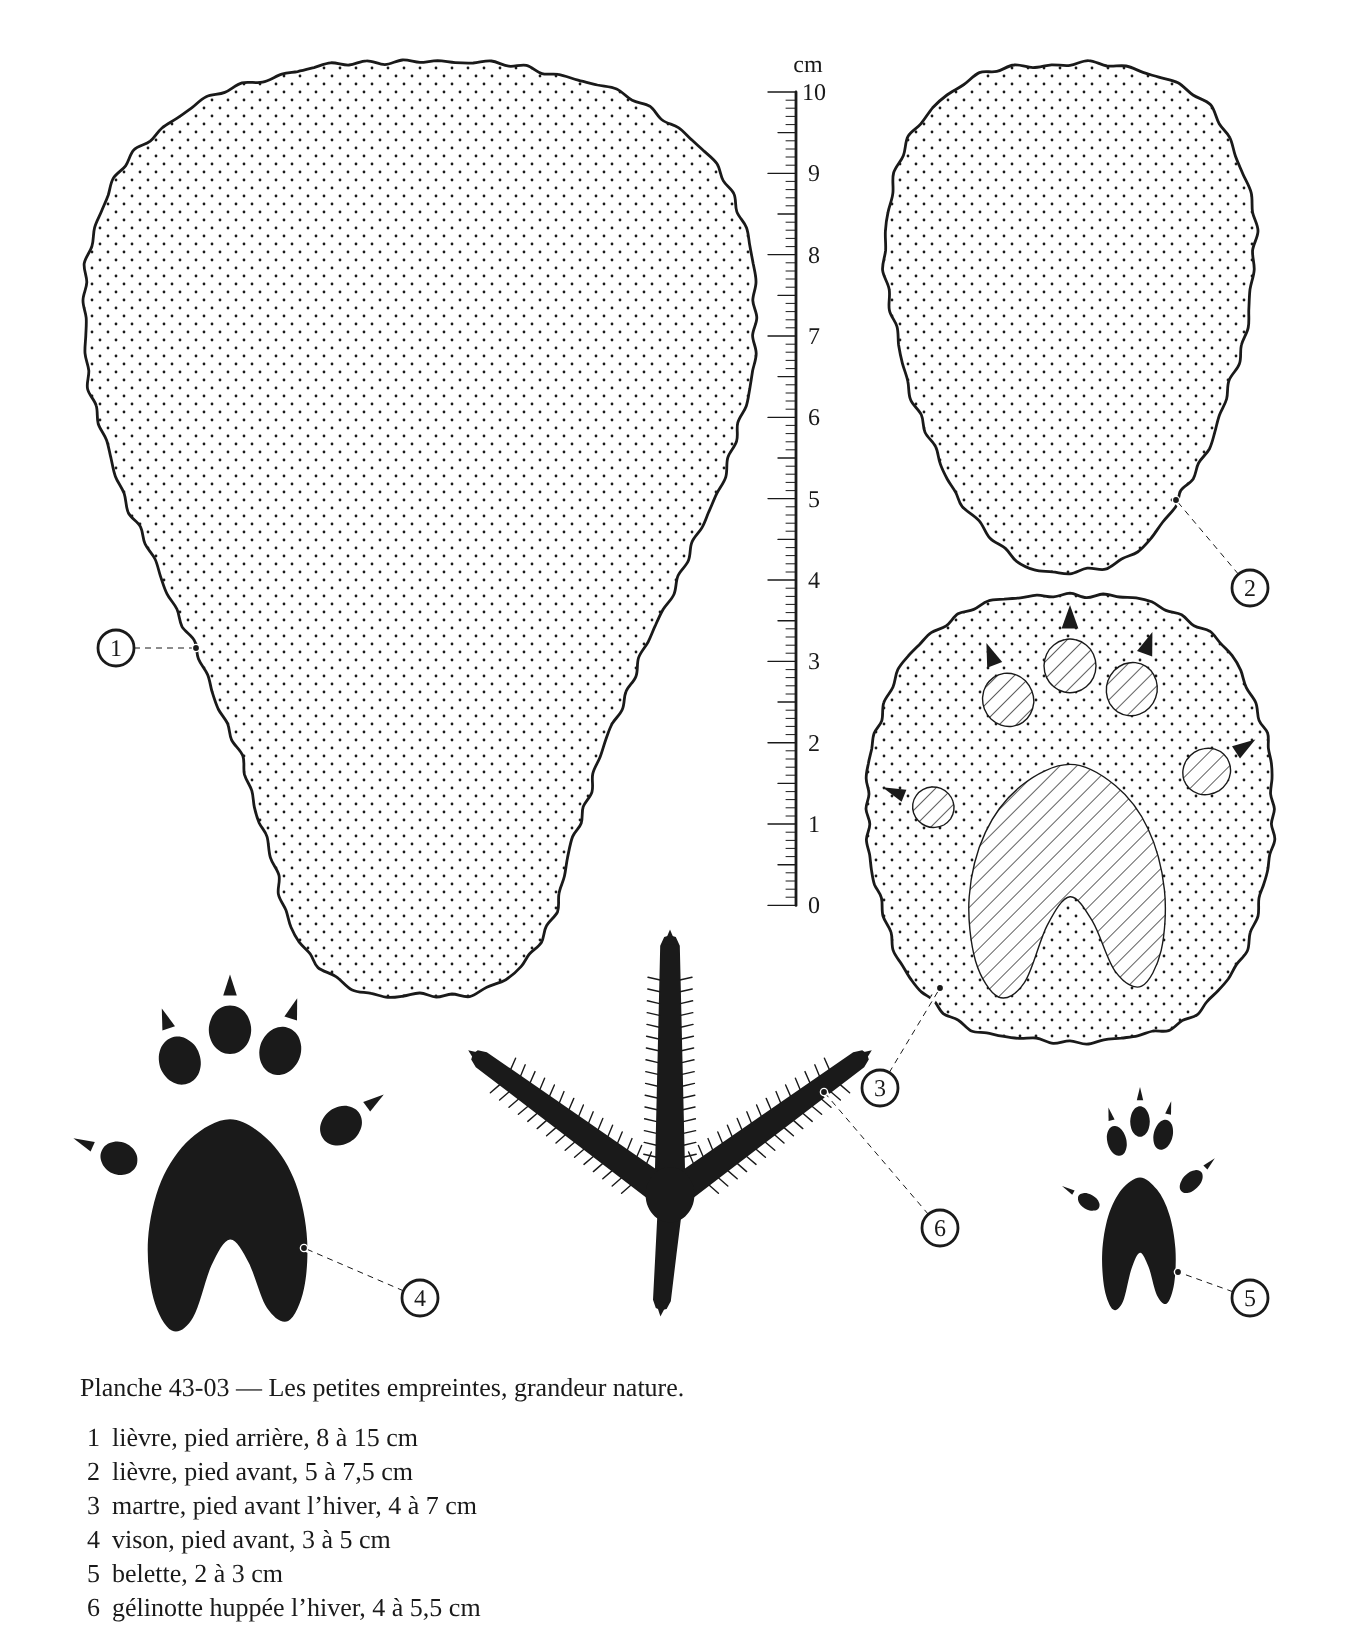
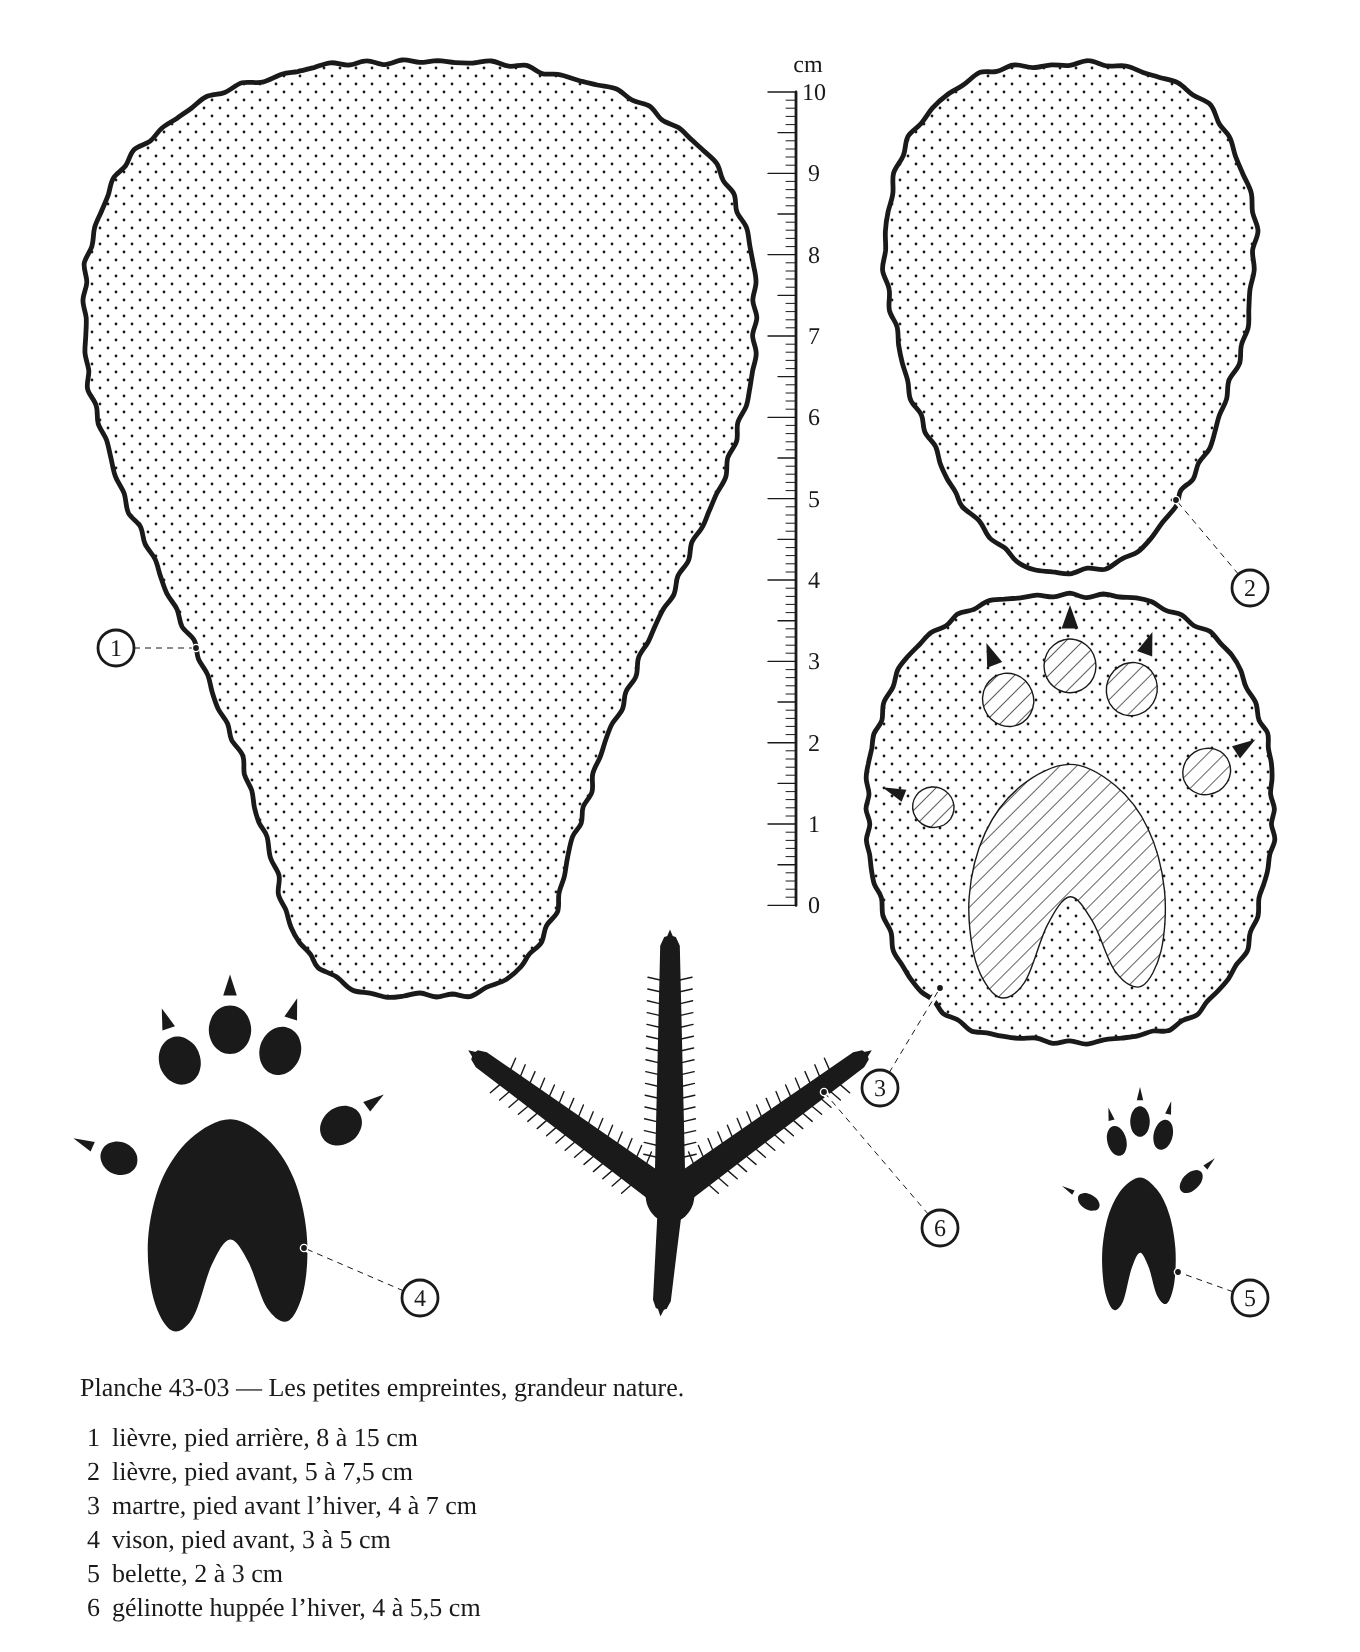
Charte : lot 6, paquet 2 (7 planches)
Claude-Session: https://claude.ai/code/session_014xDY5FLxFXDJt3nYAYznSZ

Changed region(s): [[0.7412, 0.3396, 0.8338, 0.3705]]

diff --git a/images/planches-src/12-05b.js b/images/planches-src/12-05b.js
@@ -2,6 +2,11 @@
 // section 3). Même géométrie de voûte que 12-05a. Aucune cote : le chapitre ne donne ni diamètre, ni
 // hauteur, ni profondeur de fosse ou de passage ; seules comptent les hauteurs relatives : passage plus
 // bas que le plancher, porte plus basse que le banc, trou d'aération près du sommet.
+//
+// La charte : le dedans de la maison et du passage, vus par la coupe (la voûte au-delà, les
+// blocs debout au bord de la tranchée, la paroi de la tranchée), en gris loin ; la neige coupée
+// garde sa trame, sans gris. Le rouge : les deux ouvertures qu'une poudrerie bouche et qu'on
+// dégage — le trou d'aération et l'entrée du passage. Les flèches d'air restent noires.
 
 module.exports = (h) => {
   // ─── La voûte : chaînette, en cm. Surface moyenne du mur, demi-largeur a au pied, hauteur hm.
@@ -84,6 +89,13 @@ module.exports = (h) => {
         titre: 'Dans l’axe du passage',
         dessin: z => {
           const { P } = kG(z), Pp = pts => pts.map(P), out = [];
+          // le dedans, vu par la coupe : sous la voûte, par la porte, dans le passage et la tranchée
+          { let l = 0, r = ST;
+            for (let i = 0; i < 40; i++) { const m = (l + r) / 2; if (surf(m, 1)[1] < PI0) l = m; else r = m; }
+            const dedans = courbe(0, ST, -1, -1, 40).concat(courbe(ST, 0, 1, -1, 40))
+              .concat([[150, -20], [172, -20]]).concat(courbe(0, l, 1, 1, 16))
+              .concat([[330, PI0], [330, 0], [430, 0], [370, -95], [150, -95], [150, -55], [-40, -55], [-40, 0]]);
+            out.push(h.chemin(Pp(dedans), h.a.loin, true)); }
           // le manteau de neige coupé : banc laissé en place, fosse, marche, passage, rampe
           const profil = [[-200, 0], [-40, 0], [-40, -55], [150, -55], [150, -95], [370, -95], [430, 0], [470, 0]];
           out.push(h.chemin(Pp(profil.concat([[470, -135], [-200, -135]])), neige, true));
@@ -133,6 +145,9 @@ module.exports = (h) => {
           const [c1x, c1y] = P([-172, -12]), [c2x] = P([-150, -12]), [, r0] = P([0, 0]);
           out.push(h.chemin([[c1x, r0 + 2], [c1x, c1y + 4]], h.a.detail), h.chemin([[c2x, r0 + 2], [c2x, c1y + 4]], h.a.detail));
           out.push(h.cote(c1x, c1y, c2x, c1y, '200–250', { cote: 'dessous' }));
+          // à dégager après une poudrerie : le trou d'aération, l'entrée du passage
+          out.push(h.controle(...P([mv.x, mv.z]), 13));
+          out.push(h.controle(...P([418, -6]), 14));
           return out.join('\n');
         },
         renvois: z => {
@@ -156,6 +171,8 @@ module.exports = (h) => {
         titre: 'Le passage, en travers',
         dessin: z => {
           const { P } = pG(z), Pp = pts => pts.map(P), out = [];
+          // le passage qui file vers la maison, vu par la coupe
+          out.push(h.chemin(Pp([[-35, 0], [-35, -95], [35, -95], [35, 0]].concat(arc(35, PI0 - PB, 1)).concat(arc(35, PI0 - PB, -1).reverse())), h.a.loin, true));
           const profil = [[-120, 0], [-35, 0], [-35, -95], [35, -95], [35, 0], [120, 0]];
           out.push(h.chemin(Pp(profil.concat([[120, -128], [-120, -128]])), neige, true));
           out.push(h.chemin(Pp(profil), h.a.contour));

diff --git a/images/planches-src/29-05.js b/images/planches-src/29-05.js
@@ -15,6 +15,11 @@
 // le dit en entier. Le renvoi 5 aboutit sur le devant du cou étiré.
 // Le bébé est dessiné à la main (la bibliothèque n'a pas de nouveau-né), en mm : 118 de l'occiput
 // au front, visage petit sous un gros crâne, cou court, poitrine de 95 d'épaisseur.
+//
+// La charte : le bébé est un corps dessiné à la main, laissé tel quel, sans gris. Le linge roulé,
+// ce qu'on ajoute, pèse (contour fort). Pas de gris sur la planche, qui est en coupe. Le rouge :
+// sur le raté, le cercle sur la gorge qui se referme ; en soufflant, le cercle sur la poitrine qui
+// doit se soulever. La flèche de la poitrine reste noire : c'est le corps qui bouge, pas un geste.
 module.exports = (h) => {
   const A = h.a;
   const f = v => (Math.round(v * 10) / 10).toString();
@@ -121,7 +126,7 @@ module.exports = (h) => {
         const rr = 2.2 + (r - 3.4 - 2.2) * t / (2.4 * 360);
         sp.push(V(add(c, [rr * Math.cos(t * RAD), rr * Math.sin(t * RAD)])));
       }
-      out.push(h.cercle(...V(c), r * k, blanc(A.arete)));
+      out.push(h.cercle(...V(c), r * k, blanc(A.contour)));
       out.push(h.path(lisse(sp), A.detail));
     }
     // la couverture : du bas de la poitrine aux pieds (les bras sont dessous)
@@ -208,7 +213,8 @@ module.exports = (h) => {
     const v = vignette(z, A0, CADRE_P, XP, { poitrine: true });
     const y0 = surFace(X_FL)[1];
     const fl = [v.V([X_FL, y0 - 6]), v.V([X_FL, y0 - 30])];
-    return [v.svg, h.fleche(`M${pt(fl[0])} L${pt(fl[1])}`, A.arete)].join('\n');
+    const pc = v.V([120, leve([120, -109])[1] + 2]);   // ce qu'on regarde à chaque bouffée
+    return [v.svg, h.fleche(`M${pt(fl[0])} L${pt(fl[1])}`, A.arete), h.controle(pc[0], pc[1], 15)].join('\n');
   };
 
   // ─── Souffler, vu d'en haut : le visage du bébé couché, de face, et l'anneau des lèvres de
@@ -283,7 +289,10 @@ module.exports = (h) => {
       },
       rate: {
         titre: 'Raté : la tête renversée',
-        dessin: z => vignette(z, A_RATE, CADRE, XC).svg,
+        dessin: z => {
+          const g = posC(z, mil(poseTete(A_RATE)(GORGE), FACE[0]));   // là où la gorge se referme
+          return vignette(z, A_RATE, CADRE, XC).svg + '\n' + h.controle(g[0], g[1] + 6, 16);
+        },
         renvois: z => [
           // sur le devant du cou étiré, entre le menton et le haut de la poitrine
           { n: 5, rond: posC(z, [120, -146]), cible: posC(z, mil(poseTete(A_RATE)(GORGE), FACE[0])), texte: 'la gorge se referme' },

diff --git a/images/planches-src/43-03.js b/images/planches-src/43-03.js
@@ -19,6 +19,8 @@
 // Laissés de côté : l'écureuil roux et le rat musqué (le chapitre ne donne que des longueurs, ni
 // le nombre de doigts ni la forme), le canard et le tétras (aucune mesure dans le chapitre).
 // Toutes les empreintes ont les doigts vers le haut : la bête allait vers le haut de la page.
+// La charte (empreinte grandeur nature : pas de gris, pas de rouge) : le bord des pieds poilus du
+// lièvre et de la martre passe à 2,4, comme le contour des grands gabarits de la 43-01.
 module.exports = (h) => {
   const S = 680 / 167.2;                       // unités de vue par mm, à l'impression
   const f = (n) => (Math.round(n * 10) / 10).toFixed(1);
@@ -76,7 +78,7 @@ module.exports = (h) => {
   const LIEVRE_AV = miroir([[0, 31.25], [11, 29.8], [18.5, 24], [22.5, 13], [22, 1], [18.5, -12], [13, -23],
     [6.5, -29.8], [0, -31.25]]);
   // le creux du pied poilu est pointillé : c'est la surface que le pied a tassée
-  const pied = (ox, oy, contour, graine) => h.path(lisse(poilu(contour, 0.45, 2.2, graine).map(rep(ox, oy))), h.a.hachure('neige', 'arete'));
+  const pied = (ox, oy, contour, graine) => h.path(lisse(poilu(contour, 0.45, 2.2, graine).map(rep(ox, oy))), h.a.hachure('neige', 'contour'));
 
   // ─── Les mustélidés : cinq doigts un-trois-un, coussinet en chevron, griffes ───────────────────
   // En fraction de la largeur (u) et de la longueur (v) ; pied avant droit, petit doigt à gauche.
@@ -106,7 +108,7 @@ module.exports = (h) => {
   const MARTRE_POIL = miroir([[0, 0.5], [0.2, 0.48], [0.37, 0.39], [0.47, 0.22], [0.5, 0.02], [0.47, -0.18],
     [0.39, -0.36], [0.24, -0.47], [0, -0.5]]);
   const martre = (ox, oy) => [
-    h.path(lisse(poilu(MARTRE_POIL.map(([u, v]) => [u * 50, v * 55]), 0.4, 2, 5).map(rep(ox, oy))), h.a.hachure('neige', 'arete')),
+    h.path(lisse(poilu(MARTRE_POIL.map(([u, v]) => [u * 50, v * 55]), 0.4, 2, 5).map(rep(ox, oy))), h.a.hachure('neige', 'contour')),
     mustelide(ox, oy, 40, 44, true),
   ].join('\n');
 

diff --git a/.claude/skills/planches/scripts/mains/prises.js b/.claude/skills/planches/scripts/mains/prises.js
@@ -635,7 +635,10 @@ function pouceVers(S, G, nG, obstacles, o = {}) {
 function pouceSurPhalanges(S, segsD, noms, o = {}) {
   const ss = noms.map(n => segsD.find(s => s.id === n));
   const mid = ss.map(s => I3(s.a, s.b, o.t || 0.5)).reduce((a, b) => A3(a, M3(b, 1 / ss.length)), [0, 0, 0]);
-  const out = orth(U3(S3(mid, [mid[0] - 30, mid[1], 0])), U3(S3(ss[0].b, ss[0].a)));
+  // o.flanc (0 à 1) : la pulpe vise le flanc radial de la phalange plutôt que sa face extérieure. Sur la face,
+  // le bout du pouce dépasse le dos du bloc des doigts de 10 à 12 mm et, de profil, sort comme un canon (pointe)
+  const out0 = orth(U3(S3(mid, [mid[0] - 30, mid[1], 0])), U3(S3(ss[0].b, ss[0].a)));
+  const out = o.flanc ? orth(U3(A3(M3(out0, 1 - o.flanc), M3(ss[0].c.r, o.flanc))), U3(S3(ss[0].b, ss[0].a))) : out0;
   const G = A3(A3(mid, M3(out, rayonVers(ss[0], 0.5, out) + 0.4)), M3(ss[0].c.r, -(o.decale || 0)));
   // l'IP du pouce au bord radial du premier doigt replié (le pouce longe ce doigt, puis sa dernière phalange
   // le croise vers la phalange visée) : c'est ce qui le couche au lieu de le dresser en piquet
@@ -748,7 +751,7 @@ const PRISES = {
     const replies = DOIGTS.filter(n => !tendus.includes(n));
     const segsR = segsDoigts(S, doigts, replies);
     if (o.pouce === 'ecarte') doigts.pouce = { opposition: 10, cmc: -18, rotation: 3, mcp: 6, ip: 6 };
-    else doigts.pouce = pouceSurPhalanges(S, segsR, [replies[0] + '.p2'], { t: 0.6, bord: replies[0] + '.p2' }).q;
+    else doigts.pouce = pouceSurPhalanges(S, segsR, [replies[0] + '.p2'], { t: 0.6, bord: replies[0] + '.p2', flanc: o.flanc !== undefined ? o.flanc : 0.6 }).q;
     let contact = null;
     if (o.appui) {
       const pp = pulpe(S, tendus[0], doigts[tendus[0]], 0.8);

diff --git a/images/planches-src/55-03.js b/images/planches-src/55-03.js
@@ -190,6 +190,11 @@ module.exports = (h) => {
             h.chemin(P([[0, 78], [0, 214]]), h.a.detail),
             h.chemin(P(lisse([[4, 84], [14, 120], [12, 180]])), h.a.detail),
             h.chemin(P(lisse([[-4, 84], [-14, 120], [-12, 180]])), h.a.detail),
+            // le fourreau est un tube : son côté droit, à l'ombre (sous le repli, au-dessus des rabats)
+            (() => {
+              const bord = lisse([[27, 220], [32, 232], [34, 280], [34, 330], [32, 368]]).filter(([, y]) => y >= 233 && y <= 356);
+              return h.chemin(P([...bord, ...bord.slice().reverse().map(([x, y]) => [x * 0.6, y])]), h.a.ombre, true);
+            })(),
             // le repli : la peau tourne sur elle-même
             h.ellipse(...T([0, 226]), 30 * s, 5 * s, h.a.arete),
             // cuir
@@ -198,7 +203,8 @@ module.exports = (h) => {
               [[-8, 326], [0, 334], [7, 330]], [[-20, 350], [-12, 356]], [[14, 348], [22, 354]]]
               .map(l => h.chemin(P(lisse(l)), h.a.detail)),
             h.path(baton, h.a.blanc), h.path(baton, h.a.arete),
-            h.fleche(fleche(1)), h.fleche(fleche(-1)),
+            // le geste : tirer à deux mains, vers la tête
+            h.geste(fleche(1)), h.geste(fleche(-1)),
           ].join('\n');
         },
         renvois: z => {
